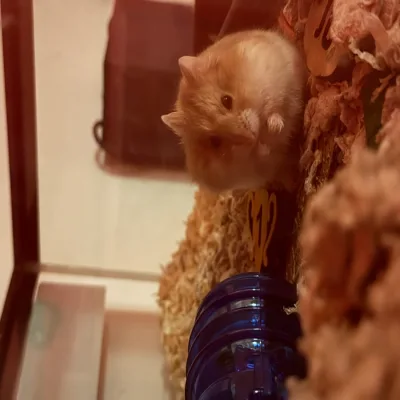
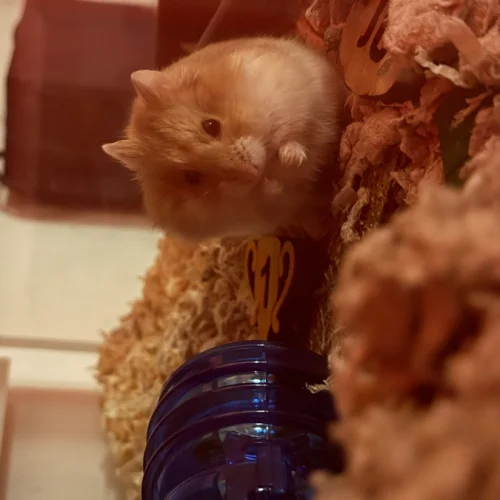
Foto Capuccino más grande y centrada + fondo con degradado mesh sutil

diff --git a/app/globals.css b/app/globals.css
@@ -45,7 +45,23 @@ html {
 }
 
 body {
-  background: linear-gradient(180deg, var(--bone) 0%, var(--bone-deep) 100%);
+  background:
+    radial-gradient(
+      ellipse 80% 55% at 85% 8%,
+      rgba(79, 127, 255, 0.16),
+      transparent 60%
+    ),
+    radial-gradient(
+      ellipse 70% 50% at 10% 95%,
+      rgba(248, 111, 3, 0.09),
+      transparent 65%
+    ),
+    radial-gradient(
+      ellipse 60% 40% at 50% 45%,
+      rgba(255, 164, 27, 0.05),
+      transparent 70%
+    ),
+    linear-gradient(180deg, var(--bone) 0%, var(--bone-deep) 100%);
   background-attachment: fixed;
   color: var(--ink);
   font-family: var(--font-inter), -apple-system, BlinkMacSystemFont,

diff --git a/app/page.tsx b/app/page.tsx
@@ -37,12 +37,12 @@ export default function Home() {
               </p>
 
               <div className="mt-10 flex items-start gap-4">
-                <div className="w-28 h-28 sm:w-32 sm:h-32 rounded-2xl overflow-hidden ring-1 ring-[color:var(--line)] shrink-0 shadow-[0_8px_20px_-8px_rgba(79,127,255,0.35)]">
+                <div className="w-40 h-40 sm:w-44 sm:h-44 rounded-2xl overflow-hidden ring-1 ring-[color:var(--line)] shrink-0 shadow-[0_10px_28px_-10px_rgba(79,127,255,0.4)]">
                   <Image
                     src="/capuccino.webp"
                     alt="Capuccino, hámster amado"
-                    width={200}
-                    height={200}
+                    width={280}
+                    height={280}
                     priority
                     className="w-full h-full object-cover"
                   />